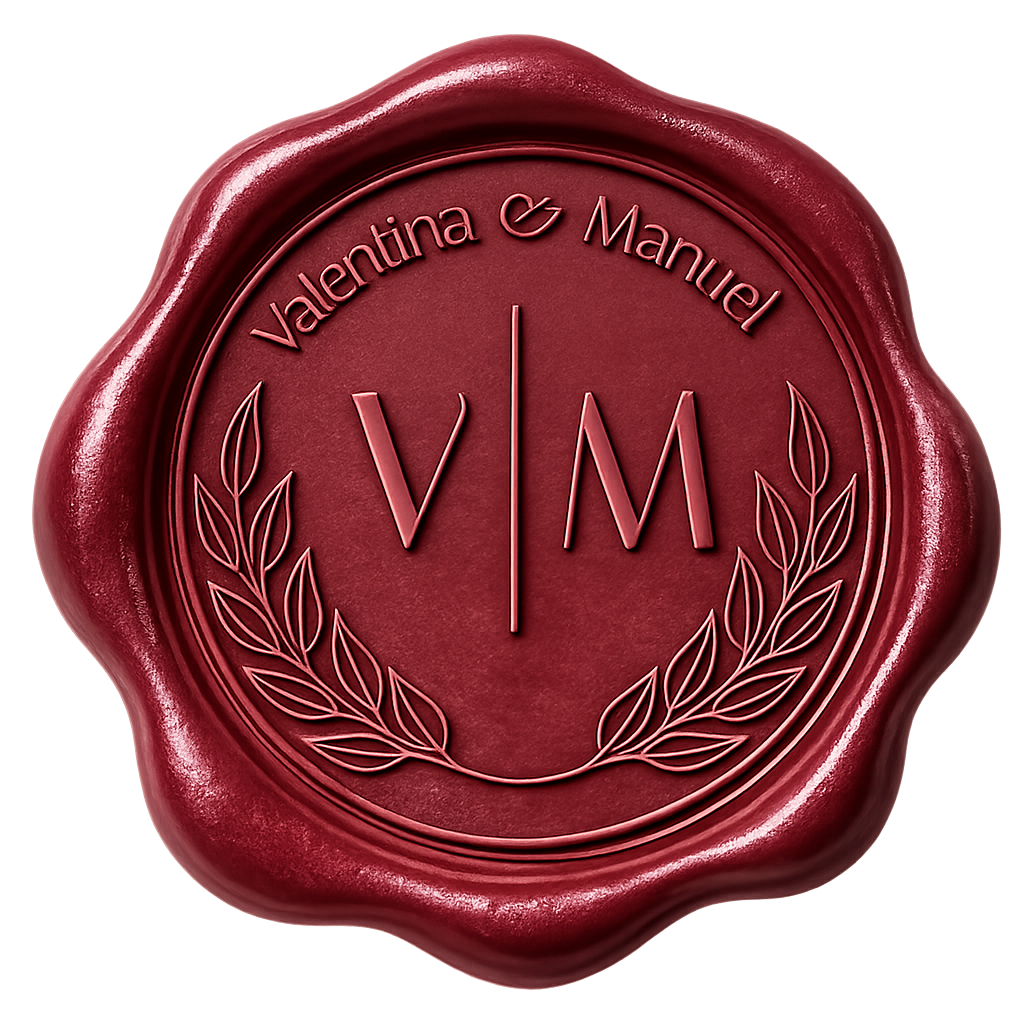
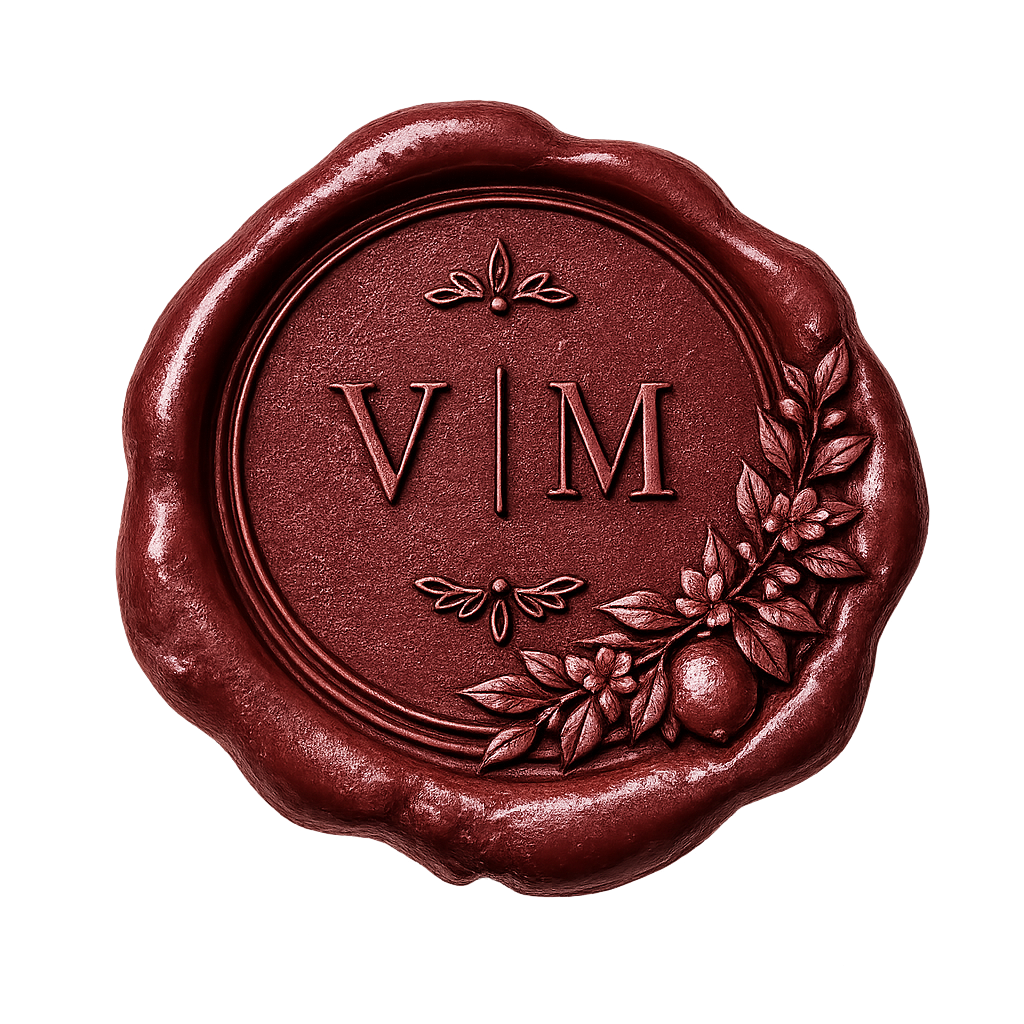
feat: new V|M monogram and no-background wax seal
Replace the monogram (svg -> png) and the main wax seal with the new
lemon-wreath artwork; the seal art has a transparent background so it sits
cleanly on the cream. Footer monogram src/dimensions updated accordingly.

diff --git a/components/shared/SiteFooter.tsx b/components/shared/SiteFooter.tsx
@@ -13,10 +13,10 @@ export function SiteFooter() {
       <div className="relative mx-auto max-w-2xl px-6 py-16 md:py-20 text-center">
         {/* Monogram crest */}
         <Image
-          src="/ornaments/monogram.svg"
+          src="/ornaments/monogram.png"
           alt="Monograma de Valentina y Manuel"
-          width={172}
-          height={168}
+          width={1024}
+          height={1024}
           className="mx-auto h-24 w-auto md:h-28 opacity-90"
         />
 